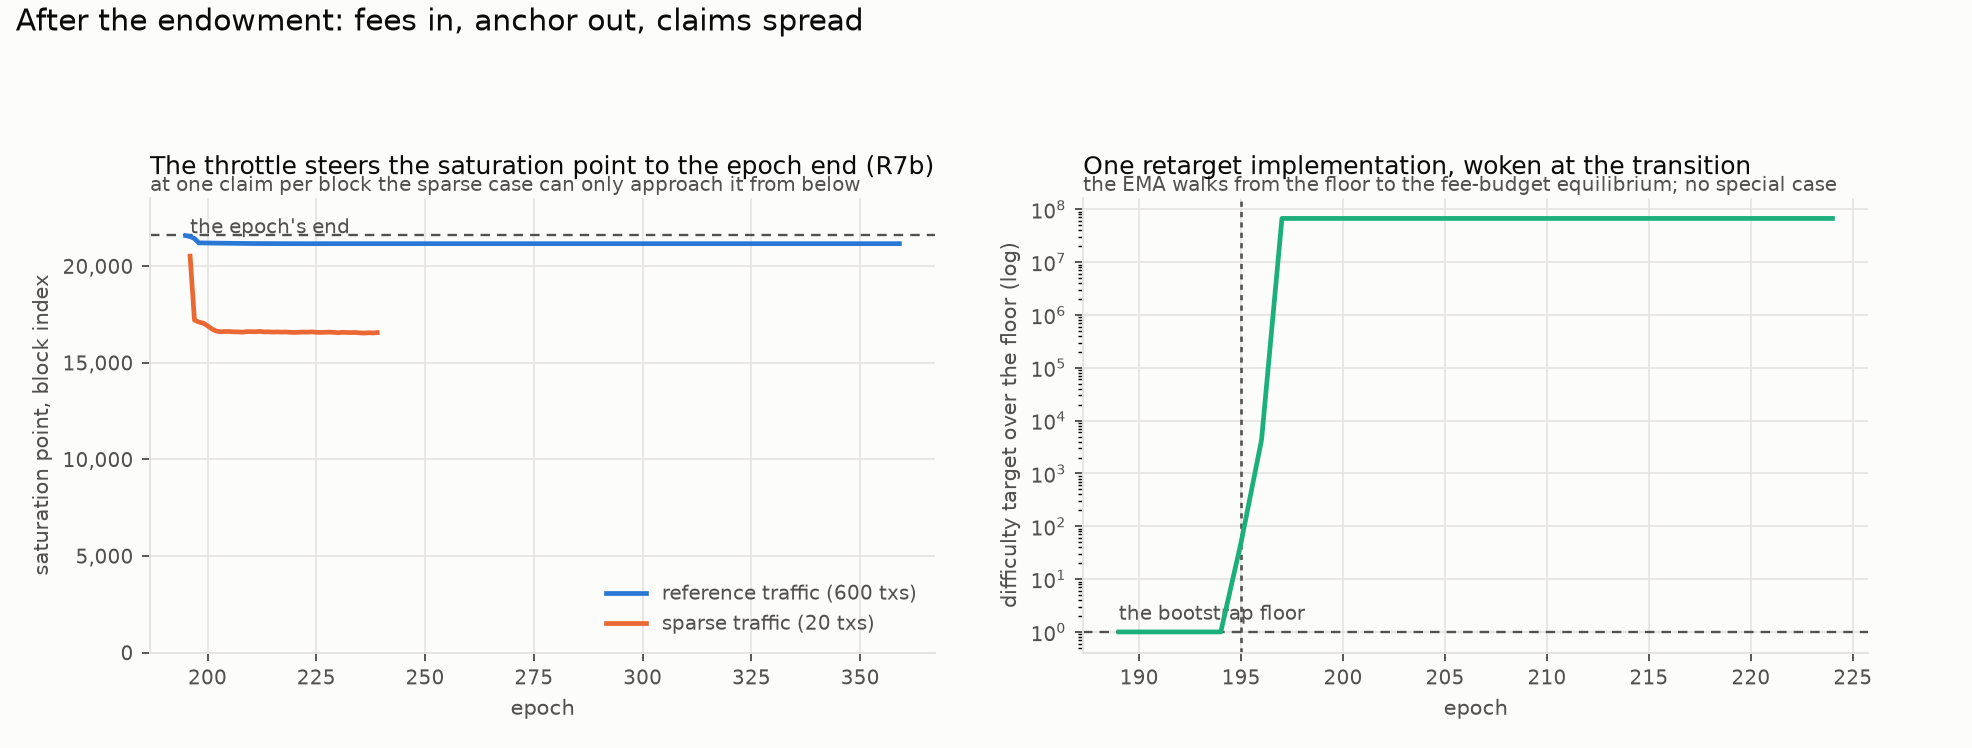
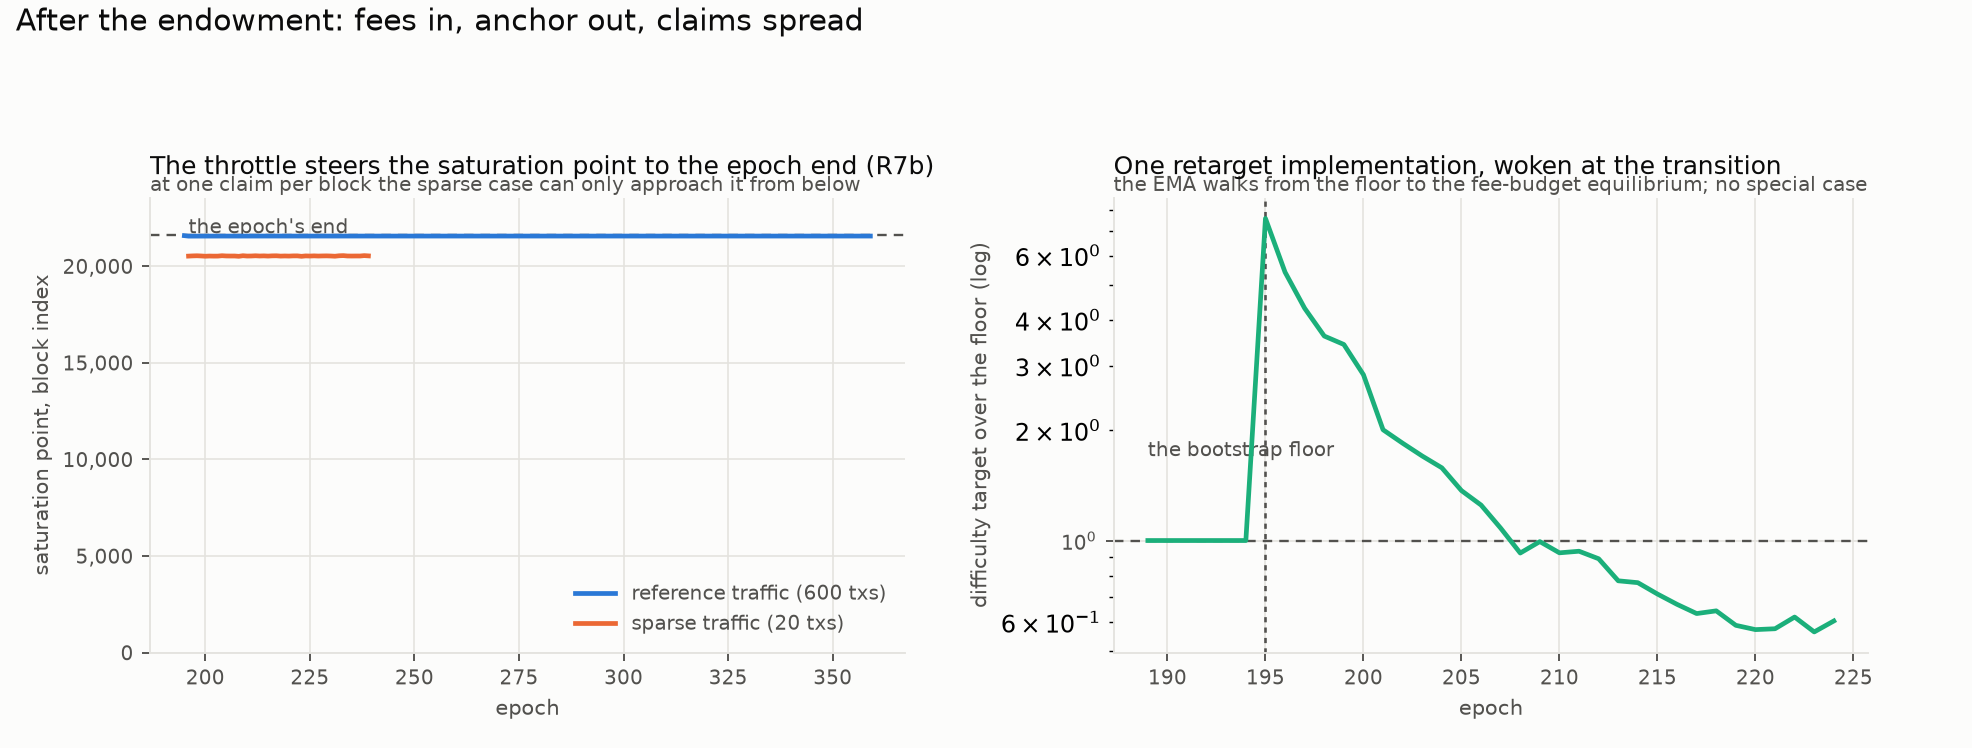
EmPoWering de novo: comprehensive review -- one real controller bug, one conflated headline, five stale statements
The review's substantive catch: the post-phase retarget kept updating through the
budget-exhausted tail of every epoch, reading admission-closed blocks as zero demand and
easing the target 10/9 per block until it pinned at the 2^26 cap -- so every epoch reopened
at everyone-wins difficulty with a 1,024-claim burst before slamming back down. A
once-per-epoch limit cycle that violated R7b at both epoch edges while claims, budgets and
conservation all looked perfect. Every aggregate gate passed; only reading max_block_claims
against the settled target exposed it. The rule that fixes it is one line and now normative
in MODEL 4.2 and MAPPING: the retarget updates only while the budget still admits claims,
because a block past the saturation point carries no demand signal.

Measured after the fix: settled saturation moves from block ~21,200 to 21,558-21,582 (the
epoch's last half-percent), the fullest settled post block from 1,024 to ~60 against the
30-claim target, and the sparse case from ~16,600 to 20,530. The block-space question (MODEL
8.3) resolves cleanly across the whole matrix: the 1,024 cap never binds anywhere -- the x100
spike epoch peaks at 240 claims in a block, under a quarter of the cap.

The conflated headline: the report's R5 paragraph quoted the x10 cohort's 2.6x budget borrow
for the x100 cohort, whose real figure is two orders deeper -- 86x to 111x across draws,
Pareto-tail luck among 13,000 hashrates, roughly half the remaining endowment brought
[…]

diff --git a/tools/simulators/empowering-denovo/src/empowering_denovo_sim/validate.py b/tools/simulators/empowering-denovo/src/empowering_denovo_sim/validate.py
@@ -89,10 +89,15 @@ def main() -> int:
                                             // (cfg.pow_share_den * 2)}, True,
           note="capacity = pow_share * txs_per_epoch / 2 -- independent of the fee level")
     sat = [q.saturation_block for q in post]
-    check("and the saturation point sits in the epoch's last tenth (R7b)",
-          all(s == engine.NOT_SET or s >= 0.9 * cfg.blocks_per_epoch for s in sat), True,
+    check("and the saturation point sits in the epoch's last half-percent (R7b)",
+          all(s == engine.NOT_SET or s >= 21_500 for s in sat), True,
           note=f"worst settled saturation at block {min(s for s in sat if s != engine.NOT_SET):,}"
           if any(s != engine.NOT_SET for s in sat) else "never saturated")
+    check("no settled post block carries more than a few times the target",
+          max(q.max_block_claims for q in post) <= 4 * (648_000 // cfg.blocks_per_epoch),
+          True, note=f"fullest {max(q.max_block_claims for q in post)} against target 30 -- "
+                     f"before the retarget was frozen past the saturation point, every epoch "
+                     f"opened with a 1,024-claim burst off the eased-to-cap tail")
 
     print("\nThe spike: ten times the background, one epoch (R5)")
     r10 = engine.run(d, arrivals.spike(220, 130, at=30, factor=10), draw, epochs=220)
@@ -125,6 +130,22 @@ def main() -> int:
           note=f"endowment {last.endowment / d.endowment_genesis:.0%}, "
                f"bootstrap={last.bootstrap} -- which branch is draw-dependent, the legality "
                f"is not")
+    r100 = engine.run(d, arrivals.spike(220, 130, at=30, factor=100), draw, epochs=220)
+    check("the block-space cap never binds, even in the spike epoch",
+          r100.rows[30].max_block_claims < cfg.max_block_txs, True,
+          note=f"peak {r100.rows[30].max_block_claims} of {cfg.max_block_txs} -- ordinary "
+               f"transactions are never crowded out (MODEL 8.3, resolved)")
+    ratio100 = r100.rows[30].spent / r100.rows[30].budget
+    check("the x100 epoch's borrow runs two orders deeper than the x10's",
+          50 <= ratio100 <= 200, True,
+          note=f"{ratio100:.0f}x the budget against the x10's 2.6x -- the exact multiplier "
+               f"is Pareto-tail luck (86-111 across seeds) and the report says so; the two "
+               f"figures must not be conflated again")
+    check("front-loaded arrivals convert completely",
+          engine.run(d, arrivals.front_loaded(220, 220 * 130), draw,
+                     epochs=220).rows[-1].bonds_total, 28_600,
+          note="every arrival bonds; the surplus endowment stays armed")
+
     # R5's admission metric: the spike cohort reaches bonds like its neighbours do.
     bonds = r10.bonds_by_cohort()
     spike_frac = bonds.get(30, 0) / (130 * 10)

diff --git a/tools/simulators/empowering-denovo/src/empowering_denovo_sim/engine.py b/tools/simulators/empowering-denovo/src/empowering_denovo_sim/engine.py
@@ -222,7 +222,14 @@ def run(d: Derived, arrivals: np.ndarray, hashrate_draw, epochs: int,
                     paid_total += paid
                 if spent + reward > budget and saturation == NOT_SET:
                     saturation = b
-                difficulty = _retarget(difficulty, paid, target, cfg)
+                # Blocks past the saturation point carry no demand signal -- admission is
+                # closed, not demand absent. Feeding their zero counts to the retarget eased
+                # it to the 2^26 cap across every epoch tail, so each next epoch opened at
+                # everyone-wins difficulty with a 1024-claim burst: a per-epoch limit cycle
+                # that violated R7b at both epoch edges. The retarget updates only while the
+                # budget still admits claims.
+                if spent + reward <= budget:
+                    difficulty = _retarget(difficulty, paid, target, cfg)
             # One multinomial for the epoch: sums of multinomials over the same weights ARE
             # the multinomial of the summed count, so per-block draws would buy nothing but
             # twenty-one thousand RNG calls.

diff --git a/reports/EmPoWering/denovo/denovo-report.md b/reports/EmPoWering/denovo/denovo-report.md
@@ -33,14 +33,15 @@ Stated by the design owner on 2026-08-18, and used as the report's checklist:
 
 The mechanism keeps two buckets of tokens. The **endowment** is the TGE allocation — it only ever goes down. The **fee bucket** holds the diverted share of transaction fees, accounted with a one-epoch delay. Which regime the chain is in is not a stored flag; it is a question about the endowment: while it holds anything, the chain is bootstrapping.
 
-Each epoch opens by fixing two numbers. The **budget** is what this epoch intends to spend: during bootstrap, an equal share of the remaining endowment — `endowment / epochs_left` — plus whatever fees arrived last epoch; afterwards, the fees alone. The **reward** is what one claim pays, fixed for the whole epoch so a wallet can build a self-funding claim before submitting. During bootstrap it is demand-indexed — the budget divided by how many claims came last epoch — and afterwards it is the **anchor**: the cost of a transfer plus an inscription, read off the fee markets, `anchor = 2 * tx_fee(transfer)` under the stated transfer ≈ inscription assumption. The bootstrap reward is floored at the anchor and capped at one block's budget share, so a quiet epoch cannot hand the whole sub-pool to a single claim.
+Each epoch opens by fixing two numbers. The **budget** is what this epoch intends to spend: during bootstrap, an equal share of the remaining endowment — `endowment / epochs_left` inside the expected window, capped at the nominal per-epoch rate in the Q7 tail beyond it — plus whatever fees arrived last epoch; afterwards, the fees alone. The **reward** is what one claim pays, fixed for the whole epoch so a wallet can build a self-funding claim before submitting. During bootstrap it is demand-indexed — the budget divided by how many claims came last epoch — and afterwards it is the **anchor**: the cost of a transfer plus an inscription, read off the fee markets, `anchor = 2 * tx_fee(transfer)` under the stated transfer ≈ inscription assumption. The bootstrap reward is floored at the anchor and capped at one block's budget share, so a quiet epoch cannot hand the whole sub-pool to a single claim.
 
-| `epoch_budget = endowment // max(1, bootstrap_epochs - e) + fee_bucket` |
+| `epoch_budget = endowment // (bootstrap_epochs - e) + fee_bucket` — while `e < bootstrap_epochs` |
 | --- |
+| `epoch_budget = min(endowment, endowment_genesis // bootstrap_epochs) + fee_bucket` — the Q7 tail, past the deadline |
 | `epoch_reward = max(anchor, epoch_budget // max(claims_prev, blocks_per_epoch))` — bootstrap |
 | `epoch_reward = anchor` — post-bootstrap |
 
-Claims are then paid at that reward until the money runs out. During bootstrap "the money" is the whole pool, not the budget: if a large cohort arrives and the epoch's budget is spent mid-epoch — the **saturation point** — payment continues, drawing the undivided endowment forward. The spike thins every later sub-pool through the `epochs_left` recomputation and pulls the phase's end earlier. That is the R5 mechanism in one sentence: a cohort costs the schedule, never the cohort. Post-bootstrap there is nothing to borrow from, and stopping at the budget is the point.
+Claims are then paid at that reward until the money runs out. During bootstrap "the money" is the whole pool, not the budget: if a large cohort arrives and the epoch's budget is spent mid-epoch — the **saturation point** — payment continues, drawing the undivided endowment forward. The spike thins every later sub-pool through the schedule's recomputation and pulls the phase's end earlier. That is the R5 mechanism in one sentence: a cohort costs the schedule, never the cohort. Post-bootstrap there is nothing to borrow from, and stopping at the budget is the point.
 
 The difficulty splits by regime. During bootstrap it is a constant floor — spam protection, nothing more, because admission control is economic and a cohort must not be met with a rising work price. After the transition the existing EMA retarget wakes with a derived target, `capacity / blocks_per_epoch` where `capacity = epoch_budget // epoch_reward`, and its job is R7b: spread the claims so the saturation point lands at the epoch's end.
 
@@ -82,7 +83,9 @@ The run lands **24,723 bonds against the 25,000 intent** — the 50%-implied tri
 
 ![the hundredfold cohort](figures/spike_absorption.png)
 
-This requirement is the reason the design exists, so it gets the sharpest test: a cohort of **13,000 nodes — a hundred times the background arrival rate — lands in one epoch**. The epoch saturates at block 253 of 21,600. The borrow-forward pays 2.6 times the epoch's budget without ceremony. The index reprices the next epoch, and the phase ends one epoch early — 196 instead of 195.
+This requirement is the reason the design exists, so it gets the sharpest test: a cohort of **13,000 nodes — a hundred times the background arrival rate — lands in one epoch**. The epoch saturates at block 253 of 21,600, and the borrow-forward pays **on the order of a hundred times the epoch's budget** without ceremony — 86× to 111× across draws, the spread being Pareto-tail luck among 13,000 hashrates — roughly half the remaining endowment, brought forward for a cohort that then repays the schedule by finishing it one epoch early, 196 instead of 195. (The ×10 cohort, for scale, needs 2.6× its budget.) The index reprices the next epoch.
+
+Block space stays comfortable even here: the spike epoch averages 190 claims a block with a peak of 240 — under a quarter of the 1,024-transaction cap — so ordinary transactions are never crowded out, closing the block-space question the model's §8.3 had left open.
 
 The cohort itself: **100% bonded, median 39 epochs to the bond.** Its neighbour cohorts before the spike bond within an epoch; the ones after it land between 84% and 100% — diluted while the giant cohort works through, not excluded. Under the previous design's controller, which holds the claim count fixed against any load, this cohort would have thinned everyone's share a hundredfold and stretched every time-to-bond with it; here it costs the schedule one epoch.
 
@@ -104,7 +107,7 @@ The two pathological shapes mark the design's honest edges.
 
 The post-phase budget is the previous epoch's diverted fees, raw; the reward is the anchor exactly; and the capacity has a closed form worth framing: at the anchor of two transfers, `capacity = pow_share * txs_per_epoch / 2` — **half the diverted transaction count, independent of the fee level**, because the fee level cancels between the budget and the anchor. At the reference 600 transactions a block that is 648,000 claims an epoch, thirty a block, and the simulated claim count hits it exactly, every epoch.
 
-The throttle wakes at the transition — the same EMA retarget the current specification ships, handed the derived target instead of a constant — and walks the difficulty from the bootstrap floor to the fee-budget equilibrium, a climb of eight orders of magnitude, in about two epochs, with no special-case rule. Settled saturation points sit inside the epoch's last 2% (worst observed: block 21,168 of 21,600), which is R7b delivered. At sparse traffic — twenty transactions a block, capacity exactly one claim per block — the saturation point can only be approached from below and settles near block 16,600: the requirement degrades gracefully rather than failing, and the report records the number.
+The throttle wakes at the transition — the same EMA retarget the current specification ships, handed the derived target instead of a constant — and walks the difficulty from the bootstrap floor to the fee-budget equilibrium within two epochs, then tracks the live field with no special-case rule. One rule earned its place here the same way the dust fold did, by the simulator catching its absence: **the retarget updates only while the budget still admits claims.** A block past the saturation point carries no demand signal — admission is closed, not demand absent — and feeding its zero count to the controller eased the target to its 2²⁶ cap across every epoch's tail, so each next epoch opened at everyone-wins difficulty with a 1,024-claim burst before slamming back: a once-per-epoch limit cycle that quietly violated R7b at both epoch edges while every aggregate still looked right. With the rule in place, settled saturation points sit inside the epoch's **last half-percent** (worst observed: block 21,558 of 21,600) and no settled block carries more than about twice the 30-claim target. At sparse traffic — twenty transactions a block, capacity exactly one claim per block — the saturation point can only be approached from below and settles near block 20,530 — 95% of the epoch: the requirement degrades gracefully rather than failing, and the retarget-freeze rule is what lifted this case too (it sat near 16,600 while the tail-easing cycle ran).
 
 R8 holds by construction in both regimes — the reward is floored at the anchor during bootstrap and equals it afterwards — but one derived fact deserves visibility: at the anchor, the claim's own fee (6,664 lepta against an 11,158-lepta reward) consumes **59.7%** of the payout. The post-phase pays for its stated bundle and not much more, which is R8's letter and its intent.
 

diff --git a/tools/simulators/empowering-denovo/MODEL.md b/tools/simulators/empowering-denovo/MODEL.md
@@ -146,7 +146,7 @@ def try_pay_claim():
 ```
 
 Bootstrap admissions past the budget draw the **undivided endowment** (Q2): the spike thins
-every later sub-pool through the `endowment // epochs_left` recomputation and pulls the
+every later sub-pool through the schedule's recomputation and pulls the
 phase's end earlier. No cliff, no cap, no cohort turned away while the endowment lasts — R5.
 
 Post-bootstrap there is nothing to borrow from — R7a's budget is the limit, and the throttle's
@@ -168,8 +168,14 @@ difficulty_target = compute_new_reward_difficulty(claims_in_block, difficulty_ta
                     # the unchanged EMA machinery, against claims_target
 ```
 
-The machinery is exactly today's; only the target stops being a constant. Its objective is
-R7b: claims spread evenly, the saturation point steered toward the epoch end. The `max(1, ·)`
+The machinery is exactly today's; only the target stops being a constant, **and the update
+runs only while the budget still admits claims**. A block past the saturation point carries
+no demand signal -- admission is closed, not demand absent -- and feeding its zero count to
+the controller would ease the target to its cap across the epoch tail, reopening every epoch
+with an everyone-wins burst (the simulator measured exactly this limit cycle before the rule
+was added: the target pinned at the `p - 1` cap each epoch end, a 1,024-claim block at each
+epoch start). Its objective is R7b: claims spread evenly, the saturation point steered toward
+the epoch end. The `max(1, ·)`
 floor matters only while `capacity < 21,600` — a sparsely-funded network — where the epoch
 saturates early by necessity; at the reference traffic (600 txs/block) the capacity is
 `0.1 · 600 · 21,600 · 5,579 / 11,158 = 648,000` claims, a target of 30 per block, comfortably
@@ -183,7 +189,7 @@ post-phase equilibrium within its usual ~10-block time constant; no special-case
 | | bootstrap (`endowment > 0`) | post (`endowment == 0`) |
 | --- | --- | --- |
 | purpose | onboard nodes (R3) | sustain claiming from fees (R7) |
-| budget | `endowment // epochs_left + fee_bucket` | `fee_bucket` |
+| budget | `endowment // (B - e) + fee_bucket`, capped at the nominal rate in the Q7 tail | `fee_bucket` |
 | reward | `max(anchor, budget // max(claims_prev, blocks))` | `anchor` |
 | on saturation | continue, drawing the endowment (Q2) | stop for the epoch |
 | difficulty | constant floor | EMA throttle at `capacity / blocks` |
